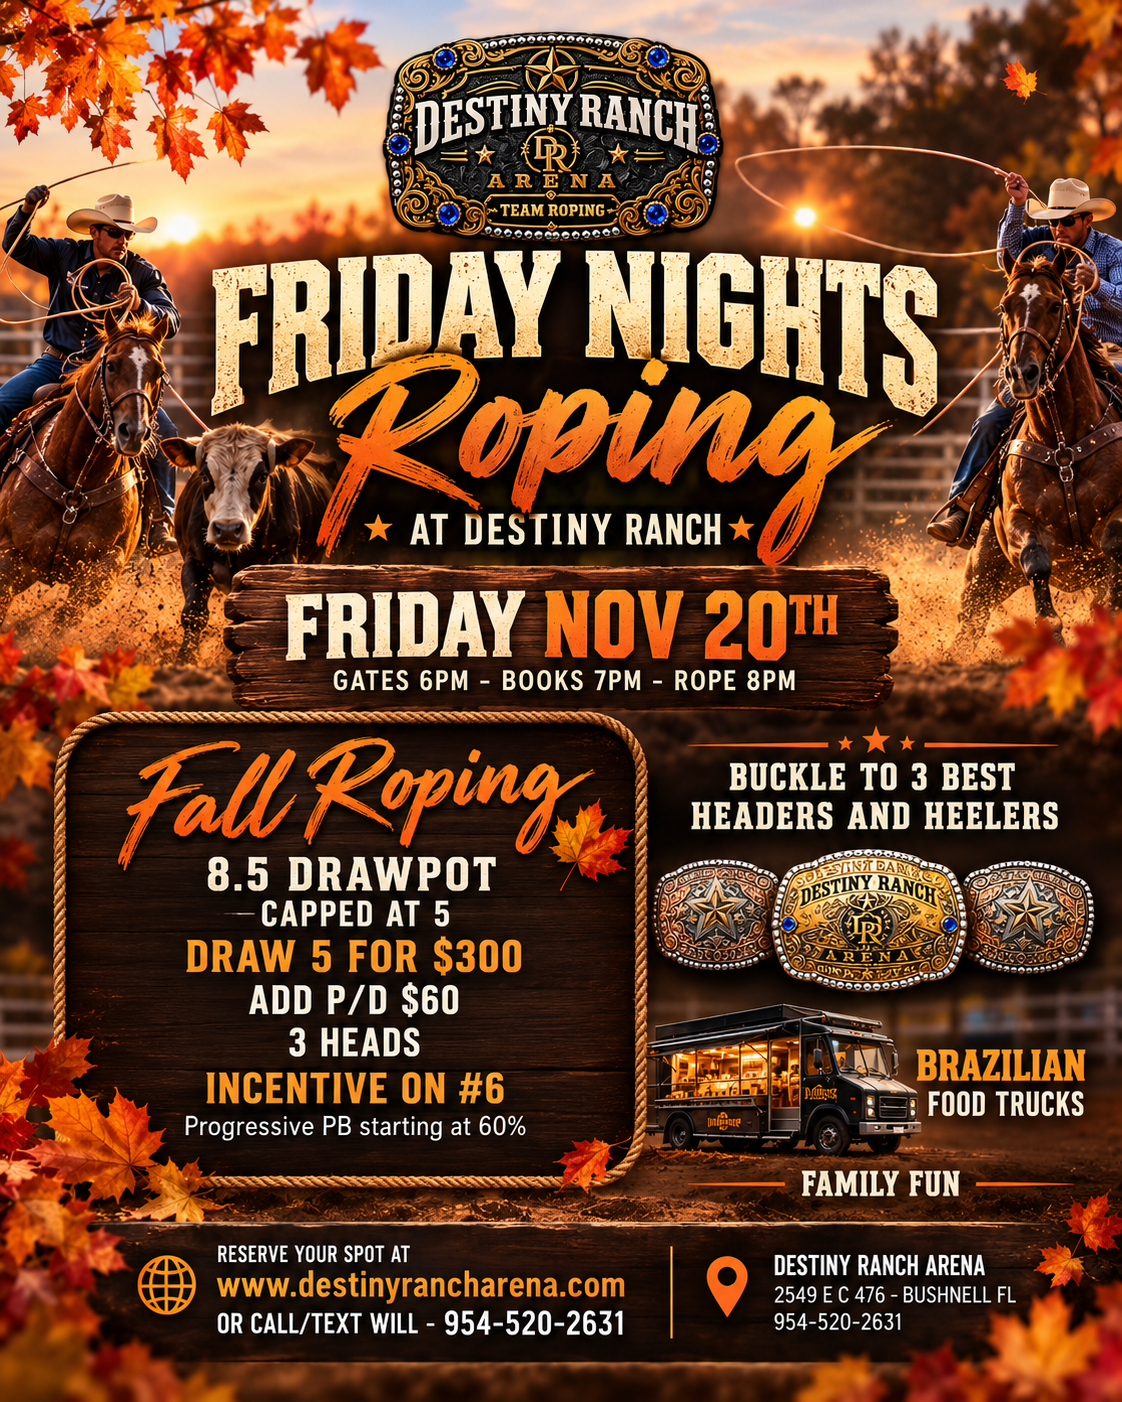
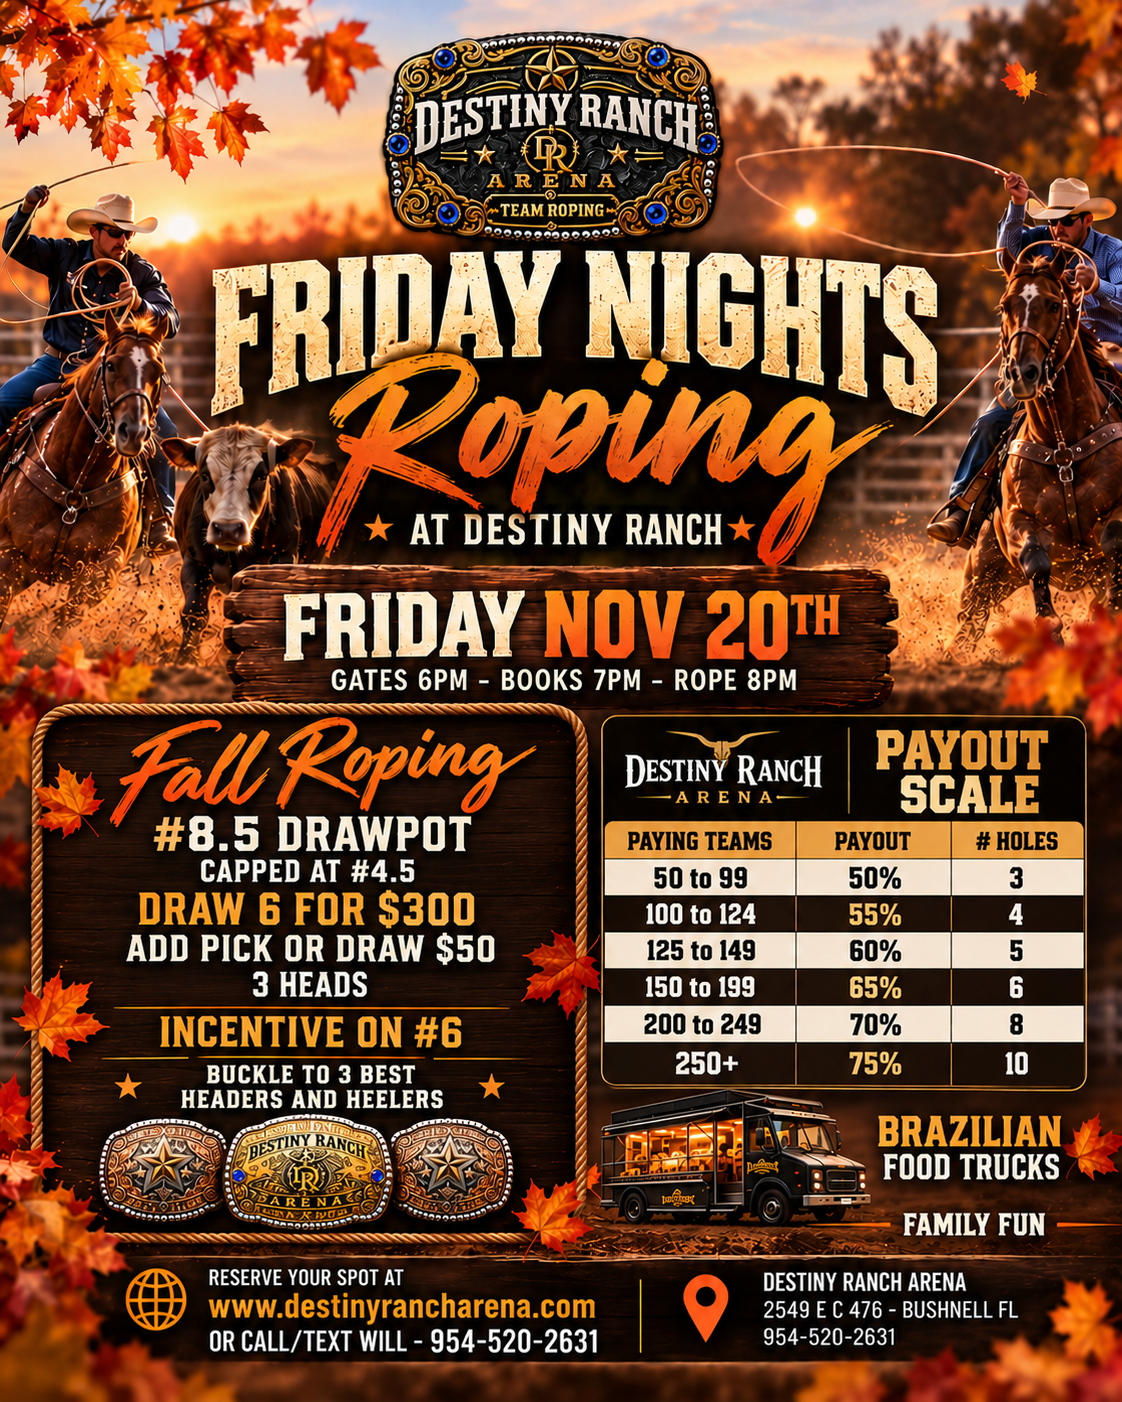
Update the November 20 Friday Nights Roping flyer

diff --git a/src/publicFlyers.test.ts b/src/publicFlyers.test.ts
@@ -9,7 +9,7 @@ describe("public flyer categories", () => {
     expect(futureEventFlyers).toEqual([
       {
         src: "./november-20-friday-nights-roping-flyer.png",
-        alt: "Destiny Ranch Arena Friday Nights Roping flyer — Friday November 20th, Fall Roping 8.5 drawpot capped at 5, draw 5 for $300, add pick or draw $60, 3 heads, incentive on #6, progressive payback starting at 60%, buckles to 3 best headers and heelers, gates 6 PM, books 7 PM, rope 8 PM, Brazilian food trucks, family fun",
+        alt: "Destiny Ranch Arena Friday Nights Roping flyer — Friday November 20th, Fall Roping #8.5 drawpot capped at #4.5, draw 6 for $300, add pick or draw $50, 3 heads, incentive on #6, payout scale from 50% with 50 paying teams up to 75% with 250+, buckle to 3 best headers and heelers, gates 6 PM, books 7 PM, rope 8 PM, Brazilian food trucks, family fun",
       },
       {
         src: "./december-19-christmas-roping-flyer.png",

diff --git a/src/publicFlyers.ts b/src/publicFlyers.ts
@@ -6,7 +6,7 @@ export interface PublicFlyer {
 export const futureEventFlyers: PublicFlyer[] = [
   {
     src: "./november-20-friday-nights-roping-flyer.png",
-    alt: "Destiny Ranch Arena Friday Nights Roping flyer — Friday November 20th, Fall Roping 8.5 drawpot capped at 5, draw 5 for $300, add pick or draw $60, 3 heads, incentive on #6, progressive payback starting at 60%, buckles to 3 best headers and heelers, gates 6 PM, books 7 PM, rope 8 PM, Brazilian food trucks, family fun",
+    alt: "Destiny Ranch Arena Friday Nights Roping flyer — Friday November 20th, Fall Roping #8.5 drawpot capped at #4.5, draw 6 for $300, add pick or draw $50, 3 heads, incentive on #6, payout scale from 50% with 50 paying teams up to 75% with 250+, buckle to 3 best headers and heelers, gates 6 PM, books 7 PM, rope 8 PM, Brazilian food trucks, family fun",
   },
   {
     src: "./december-19-christmas-roping-flyer.png",
